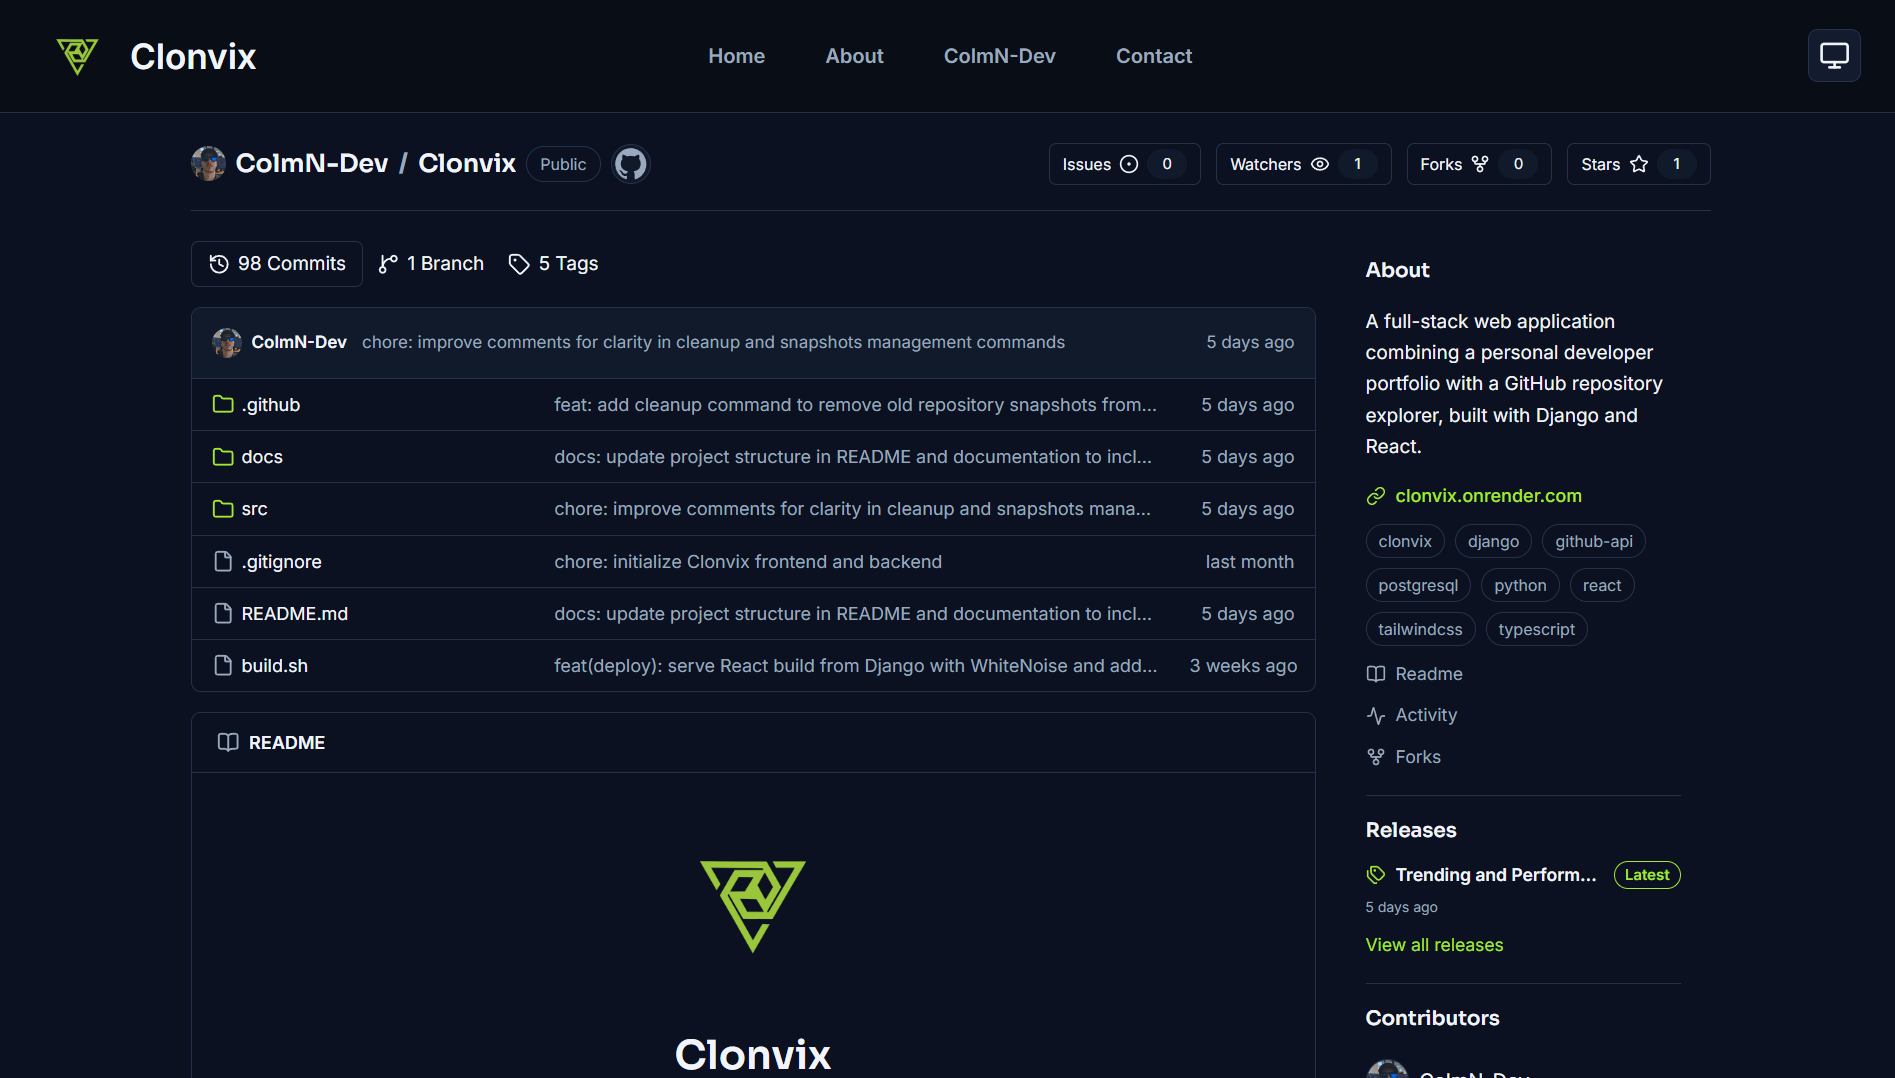
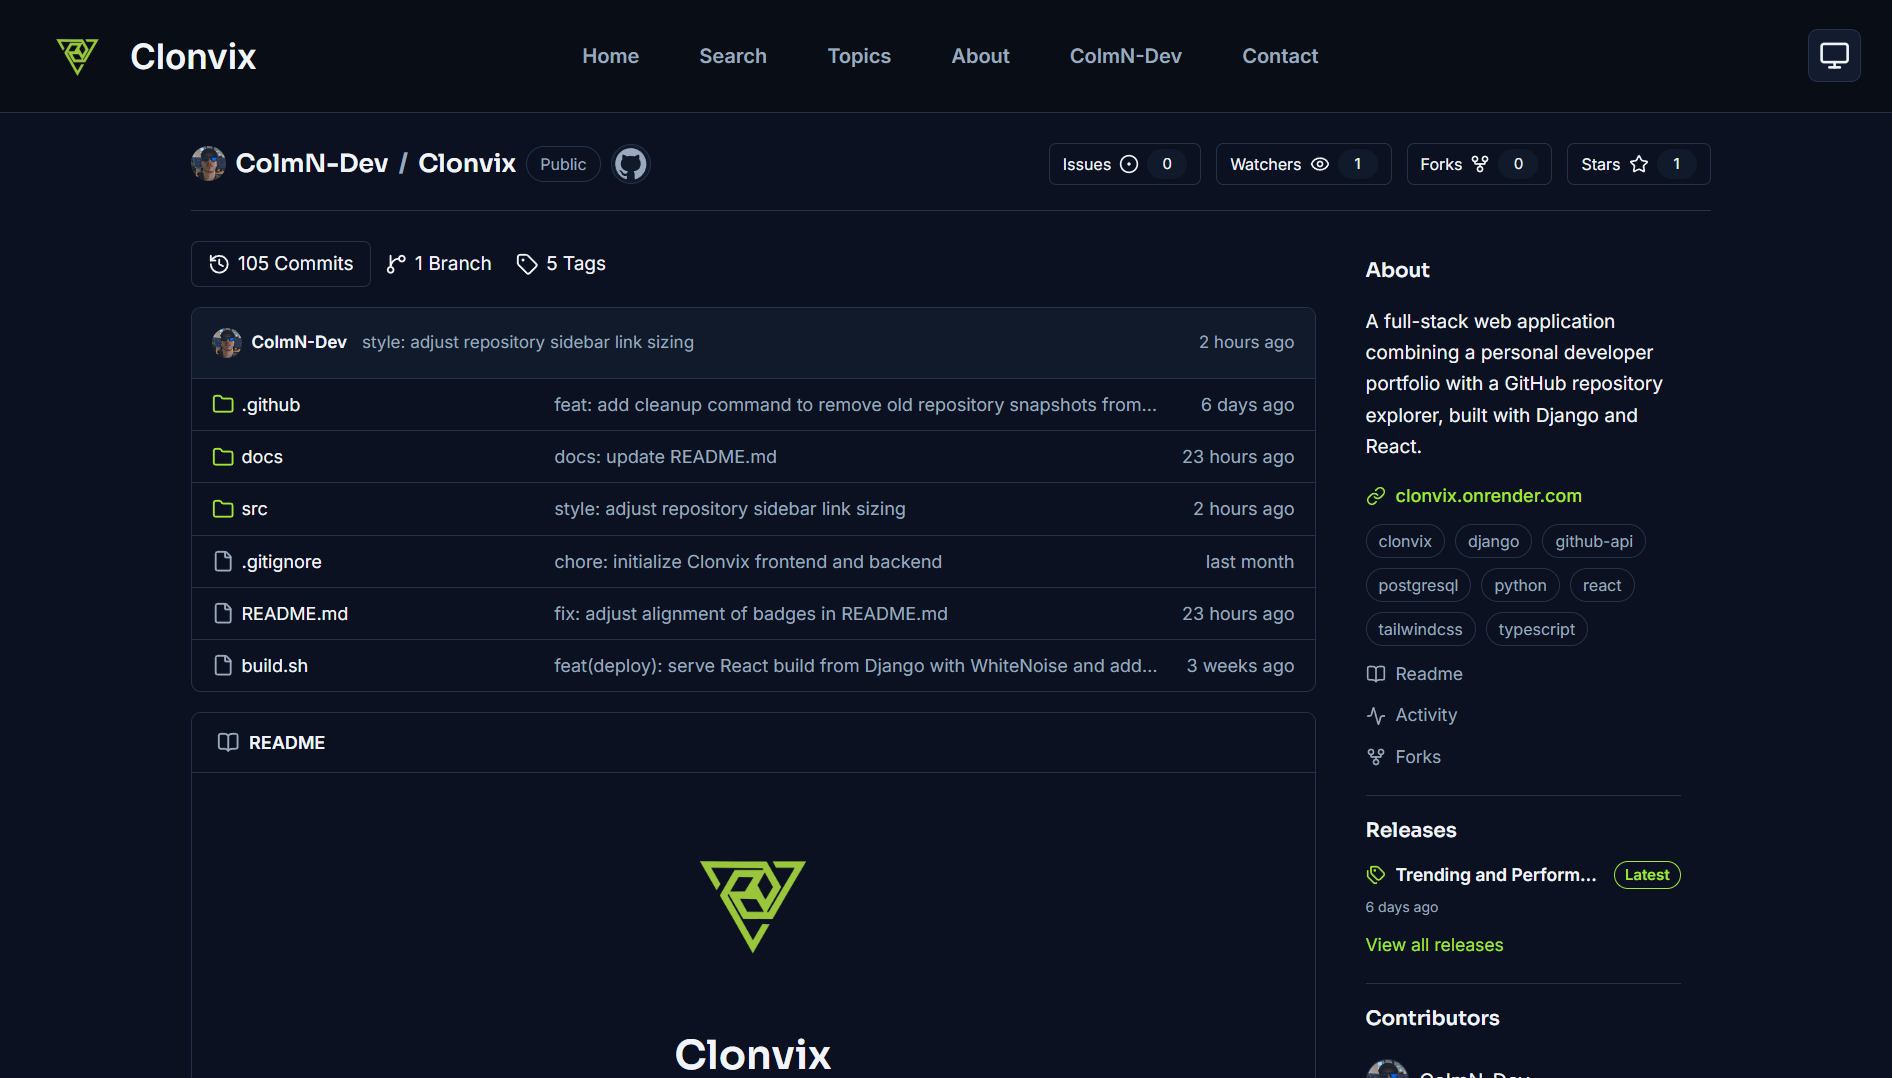
docs: update README.md and documentation assets

diff --git a/README.md b/README.md
@@ -57,9 +57,9 @@
   <br>
 
   <div align="center">
-      <img src="docs/images/homepage-v5-dark.png" alt="Clonvix home page" width="100%">
+      <img src="docs/images/homepage-v6-dark.png" alt="Clonvix home page" width="100%">
       <br><br>
-      <img src="docs/images/search-results-v4.png" alt="Clonvix search results page" width="100%">
+      <img src="docs/images/search-results-v5.png" alt="Clonvix search results page" width="100%">
       <br><br>
       <img src="docs/images/repository-detail.png" alt="Clonvix repository detail page" width="100%">
   </div>
@@ -70,47 +70,28 @@
 
 ## Features
 
-### Planned features
+### Implemented
 
-- Register, log in and manage a Clonvix profile
-- Save repositories independently of GitHub stars
-- Follow Clonvix users and GitHub developers
-- Connect a GitHub account and view public repositories
-- Create dedicated developer and topic pages
-- Complete account management and authentication
+- Full-stack application built with Django REST Framework and React, deployed on Render.
+- Responsive interface with light, dark and system theme options.
+- GitHub repository, user and topic search using the GitHub REST API.
+- Repository search with language filtering, sorting and pagination.
+- Dedicated topic landing and detail pages for discovering repositories.
+- Repository detail pages displaying metadata, README content, latest release information, deployments, contributors, language statistics and repository files.
+- Trending repositories ranked by historical star growth, with daily, weekly and monthly views.
+- Backend integration with server-side caching to reduce GitHub API requests.
+- PostgreSQL-backed daily repository star snapshots.
+- Automated GitHub Actions workflows for backend testing and frontend quality checks.
 
-### Current features
+### Planned
 
-- Django backend and Vite React frontend, deployed on Render
-- Custom Django user model configuration with Django admin integration
-- React Router with Home, About, ColmN-Dev, Contact and Repository Detail pages
-- Responsive header with a slide-out mobile menu, and a footer
-- Light and dark theme support with System, Light and Dark theme options
-- Custom text selection colours that adapt to the active theme
-- Backend status endpoint at `GET /api/status/`
-- PostgreSQL configuration through environment variables
-- Clonvix branding, theme variables and logo assets
-- Dedicated `github` Django app for GitHub API integration
-- GitHub API token configuration through environment variables
-- GitHub repository, user and topic search through the GitHub REST API
-- Server-side caching of GitHub API responses
-- Repository language filtering and sorting
-- Repository pagination
-- Search result cards for repositories, users and topics
-- Repository detail pages with metadata, descriptions and repository information
-- Repository file and directory browsing
-- Latest commit information for repository contents
-- README rendering with GitHub Flavoured Markdown support
-- Relative README image and link resolution
-- Markdown HTML sanitisation and heading anchors
-- Repository sidebar with About, README, Activity and Forks navigation
-- Latest release information when available
-- Redis caching for GitHub search responses and Trending results
-- Trending repositories ranked by historical star growth across daily, weekly and monthly periods
-- Daily repository star snapshots stored in PostgreSQL
-- GitHub Actions checks for backend tests, frontend linting and frontend builds
-- Scheduled GitHub Actions workflow for collecting daily repository snapshots
-- Project plan, wireframes, user journeys, site map and database ERD
+- User registration, login and account management.
+- Dedicated developer profile pages.
+- Save repositories independently of GitHub stars.
+- Follow Clonvix users and GitHub developers.
+- GitHub account connection and OAuth login.
+- Profile customisation and additional account features.
+- Further accessibility, testing and responsive improvements.
 
 ## Technology stack
 
@@ -230,6 +211,7 @@ From `src/frontend`:
 
 ```bash
 npm run lint
+npx tsc --noEmit
 npm run build
 ```
 
@@ -282,27 +264,22 @@ The structure will grow as the planned features are implemented. The more detail
 
 ## Documentation
 
-- [Project documentation](docs/documentation.md)
-- [Project plan](docs/project-plan.md)
-- [Database ERD source](docs/clonvix-erd.dbml)
-- [Database ERD image](docs/clonvix-erd.png)
-- [Presentation 1: Project brief](docs/presentations/presentation-01.md)
-- [Presentation 2: Project brief](docs/presentations/presentation-02.md)
-- [Presentation 3: Project Update](docs/presentations/presentation-03.md)
-- [Presentation 4: Project Update](docs/presentations/presentation-04.md)
+Additional project documentation is available in the [`docs`](docs/) directory.
+
+- [Technical Documentation](docs/documentation.md)
+- [Project Plan](docs/project-plan.md)
+- [Database Entity Relationship Diagram](docs/erd/)
+- [Presentations](docs/presentations/)
 - [Wireframes](docs/wireframes/)
 - [Project diagrams and images](docs/images/)
 
 ## Roadmap
 
-Development is planned in the following broad stages:
-
-1. Complete repository exploration, including dedicated topic pages.
-2. Add account registration, login and profile management.
-3. Implement saved repositories and developer-following features.
-4. Add GitHub account connection and GitHub login.
-5. Complete the portfolio showcase and remaining profile features.
-6. Integrate external services, including Cloudinary and Brevo.
-7. Expand testing, accessibility, responsive refinements and production improvements.
-
-The roadmap is intentionally broad and may evolve as implementation and testing reveal new requirements.
+1. Complete repository exploration and topic discovery.
+2. Implement dedicated developer profile pages.
+3. Add user registration, login and account management.
+4. Implement saved repositories and developer-following features.
+5. Integrate GitHub account connection and OAuth login.
+6. Expand profile customisation and portfolio features.
+7. Integrate remaining external services.
+8. Improve testing, accessibility, responsiveness and production readiness.
